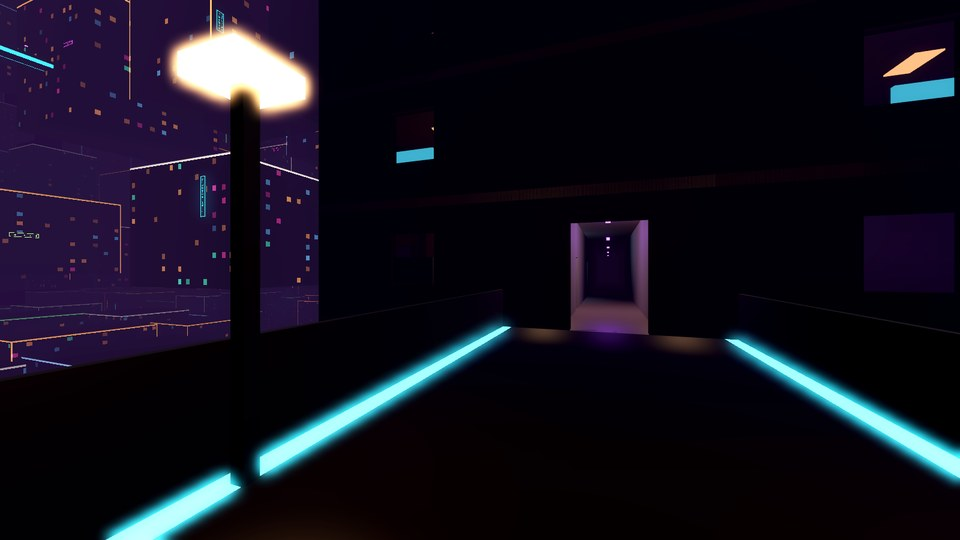
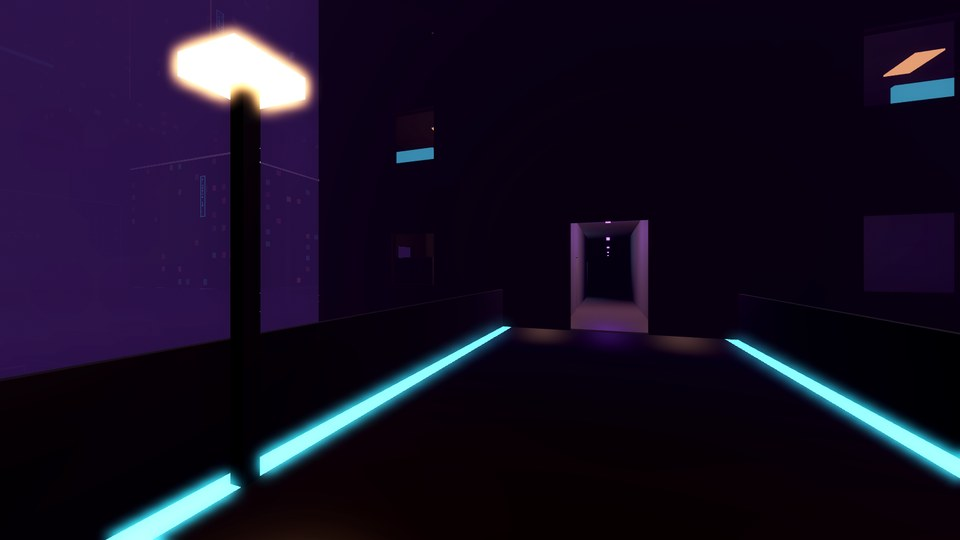
README and screenshots in heavy fog
Re-rendered all 14 screenshots (new: the stair core); README explains
the fog shader (fog sea, drifting banks, clear indoors) and the
interior overlap fix; changes table, roadmap and limitations updated.

Claude-Session: https://claude.ai/code/session_014fznqyezUmWiaiaD6hbUYz

diff --git a/README.md b/README.md
@@ -2,23 +2,26 @@
 
 A science-fiction city of floating blocks in space, built with **Godot 4.7**. Cyberpunk in
 blockspace: the city has exactly one border, its roof. Only the uppermost layer sees the light
-source above it; everything below lives on neon, lamps and lit windows, deep in a violet fog.
+source above it and stands clear above a sea of fog; everything below lives on neon, lamps and
+lit windows, drowned in heavy violet fog.
 Downward and to every side the city never ends. Canyons and shafts open it up for travel in
 every direction, bridges join neighbouring blocks, and you can walk across them into any block:
 along its corridors, up its stairs and into flats, shops, farms and offices. Some doors open
 into spaces far bigger than the blocks that hold them.
 
-| On a bridge, 21 layers down | Inside: the corridor behind the entrance |
+| On a bridge in the fog, 21 layers down | Inside: the corridor behind the entrance |
 |---|---|
 | ![Entrance](docs/images/interior-entrance.jpg) | ![Corridor](docs/images/interior-corridor.jpg) |
-| **A flat's living room** | **A shop** |
-| ![Flat](docs/images/interior-flat.jpg) | ![Shop](docs/images/interior-shop.jpg) |
-| **Out of the window into the canyon** (with the read-out) | **On foot at the start** |
-| ![Window](docs/images/interior-window.jpg) | ![On foot](docs/images/on-foot.jpg) |
-| **Above the roof: the only sunlit layer** | **Up a shaft to the light** |
-| ![Roof](docs/images/roof.jpg) | ![Shaft](docs/images/shaft-light.jpg) |
-| **Inside a canyon, 22 layers down** | **640,000 km down: same precision** |
-| ![Canyon](docs/images/canyon.jpg) | ![Deep](docs/images/deep.jpg) |
+| **The stair core** | **A flat's living room** |
+| ![Stairs](docs/images/interior-stairs.jpg) | ![Flat](docs/images/interior-flat.jpg) |
+| **A shop** | **Out of the window into the fog** (with the read-out) |
+| ![Shop](docs/images/interior-shop.jpg) | ![Window](docs/images/interior-window.jpg) |
+| **On foot at the start: sunlit roofs on a sea of fog** | **Above the roof** |
+| ![On foot](docs/images/on-foot.jpg) | ![Roof](docs/images/roof.jpg) |
+| **From the top of the fog sea up to the light** | **Inside a canyon, 22 layers down** |
+| ![Shaft](docs/images/shaft-light.jpg) | ![Canyon](docs/images/canyon.jpg) |
+| **640,000 km down: same precision** | |
+| ![Deep](docs/images/deep.jpg) | |
 | **A magic doorway…** | **…opens into a hall hundreds of metres long** |
 | ![Doorway outside](docs/images/doorway-outside.jpg) | ![Doorway inside](docs/images/doorway-inside.jpg) |
 | **Looking back out at the city from inside** | |
@@ -60,13 +63,29 @@ The city is not a heightmap. It is a **3D lattice of 64 m cells**, and every cel
   directional light by height (it fades out within 16 m below the roof layer) and the light
   dims to nothing as the player descends. Interiors are on their own visual layer the sun
   never reaches.
-- **Dark and foggy:** near-zero ambient light, exponential fog that limits sight to a few
-  hundred metres below the roof and darkens with depth, filmic tone mapping and bloom.
+- **Dark:** near-zero ambient light, filmic tone mapping, and bloom wide enough that neon and
+  lamps glow into the fog.
 - **Artificial light:** neon signs on the façades (markets the most, every service in its own
   colour, some flickering), lamps along every bridge, lit windows in a neon-tinted palette, and
   a pool of 12 real lights that follows the player to the nearest signs, lamps and room lights.
 
-### 3. Walk-in interiors for every block
+### 3. Heavy fog as a shader
+
+- **A full-screen fog pass:** a quad in front of the camera reads the depth buffer and marches
+  12 jittered steps along each view ray, accumulating fog and blending it over the frame. It
+  replaces the engine's uniform fog.
+- **A fog sea:** density and colour depend on the height of every point along the ray. The sunlit
+  roof layer holds only a light haze; from its bottom down there is heavy fog (0.02 per metre and
+  more deeper down, so after ~150 m nothing shows through); above the roof it clears within a few
+  dozen metres, so the light source and the sky blocks stay visible. The top of the fog sea glows
+  in the sunlight; below, it is dark violet.
+- **Drifting banks:** two octaves of value noise move with a slow wind. The noise is anchored to
+  absolute positions (the floating origin modulo 1024 m, computed exactly in integers), so banks
+  do not jump when the origin moves.
+- **Clear indoors:** no fog inside entered blocks (the march skips their boxes) or pocket spaces
+  (by visual layer); the portal view of the city from inside a pocket is fogged like the city.
+
+### 4. Walk-in interiors for every block
 
 - **A plan for every block,** derived from (seed, cell) like everything else: a corridor cross
   along the cell centre lines reaching all four faces, more corridors in deep blocks, rows of
@@ -80,10 +99,12 @@ The city is not a heightmap. It is a **3D lattice of 64 m cells**, and every cel
   (~1.5 ms) starting at the player's floor. Only when every floor exists is the block's sealed
   box swapped for the real shell, so the swap is invisible. Full collision exists only for the
   player's floor and the floors next to it; the outer shell is solid everywhere.
+- **No flicker:** floors and stairs sit inside the walls, and a test checks that no two drawn
+  boxes of different materials overlap anywhere, so no surfaces fight over the same pixels.
 - **Moody rooms:** only the room lights of the player's floor join the light pool, with a soft
   falloff, so rooms are lit in warm, cool or neon tones while the rest of the block stays dark.
 
-### 4. Magic doorways (bigger on the inside)
+### 5. Magic doorways (bigger on the inside)
 
 - **Doorways are transform pairs.** The outer door A sits on a block; the inner door B sits on
   the wall of the pocket space. A pose is carried through with `M = B · R_y(π) · A⁻¹`, so what is
@@ -133,10 +154,12 @@ Git history follows this rhythm (*Propose → Implement → Archive*) for each c
 | `add-cyberpunk-atmosphere` | `city-lighting`, `city-rendering` |
 | `add-on-foot-movement` | `on-foot-movement`, `free-flight`, `city-rendering`, `pocket-spaces`, `portal-traversal` |
 | `add-block-interiors` | `block-interiors`, `city-layout`, `city-bridges` |
+| `fit-interiors-inside-walls` | `block-interiors` |
+| `add-heavy-fog` | `city-fog`, `city-rendering` |
 
 ```bash
 scripts/install-godot.sh              # once: Godot 4.7.2 into .tools/godot/
-scripts/test.sh                       # 259 GUT tests, headless (~90 s)
+scripts/test.sh                       # 275 GUT tests, headless (~90 s)
 scripts/test.sh -gselect=interior     # only test files matching "interior"
 scripts/screenshot.sh out.jpg --doorway --inside           # headless render (needs Xvfb)
 scripts/screenshot.sh out.jpg --interior=flat --pos=100,-1300,60
@@ -160,9 +183,9 @@ every push. Static typing is enforced, so untyped declarations are parse errors.
    stairs between layers.
 4. **`add-city-life`**: people in corridors and flats, doors that open, interactive objects,
    and services that work: fire stations dispatch, hospitals treat.
-5. **Atmosphere:** rain, steam vents, volumetric light shafts from the roof.
-6. **Performance:** chunk and interior generation on worker threads, level of detail beyond the
-   streaming radius, lower-resolution portal views.
+5. **Atmosphere:** rain, steam vents, light cones of lamps in the fog, light shafts from the roof.
+6. **Performance:** stream and draw only what the fog lets through, chunk and interior
+   generation on worker threads, lower-resolution portal views.
 7. **Gameplay:** what the player *does* in the city. A story, jobs, exploration goals. This is
    the big open design question.
 
@@ -173,5 +196,6 @@ every push. Static typing is enforced, so untyped declarations are parse errors.
   is swapped for its interior.
 - Lights cast no shadows, so walls and floors do not block light. That is why only the
   player's floor is lit.
+- Lamps and signs do not light the fog itself; their halos come from bloom.
 - One live portal at a time. Other doorways shimmer until you are within 160 m.
 - Furniture is made of boxes.

diff --git a/openspec/changes/add-heavy-fog/tasks.md b/openspec/changes/add-heavy-fog/tasks.md
@@ -13,5 +13,5 @@
 ## 3. Visual check and integration
 
 - [x] 3.1 Render a canyon, the roof, a bridge entrance, a window view and the start on foot; verify by eye (heavy fog, sunlit haze on top, clear rooms, no artefacts)
-- [ ] 3.2 Re-render the README screenshots
+- [x] 3.2 Re-render the README screenshots
 - [x] 3.3 Run `scripts/test.sh` (all green) and `openspec validate --all --strict`
